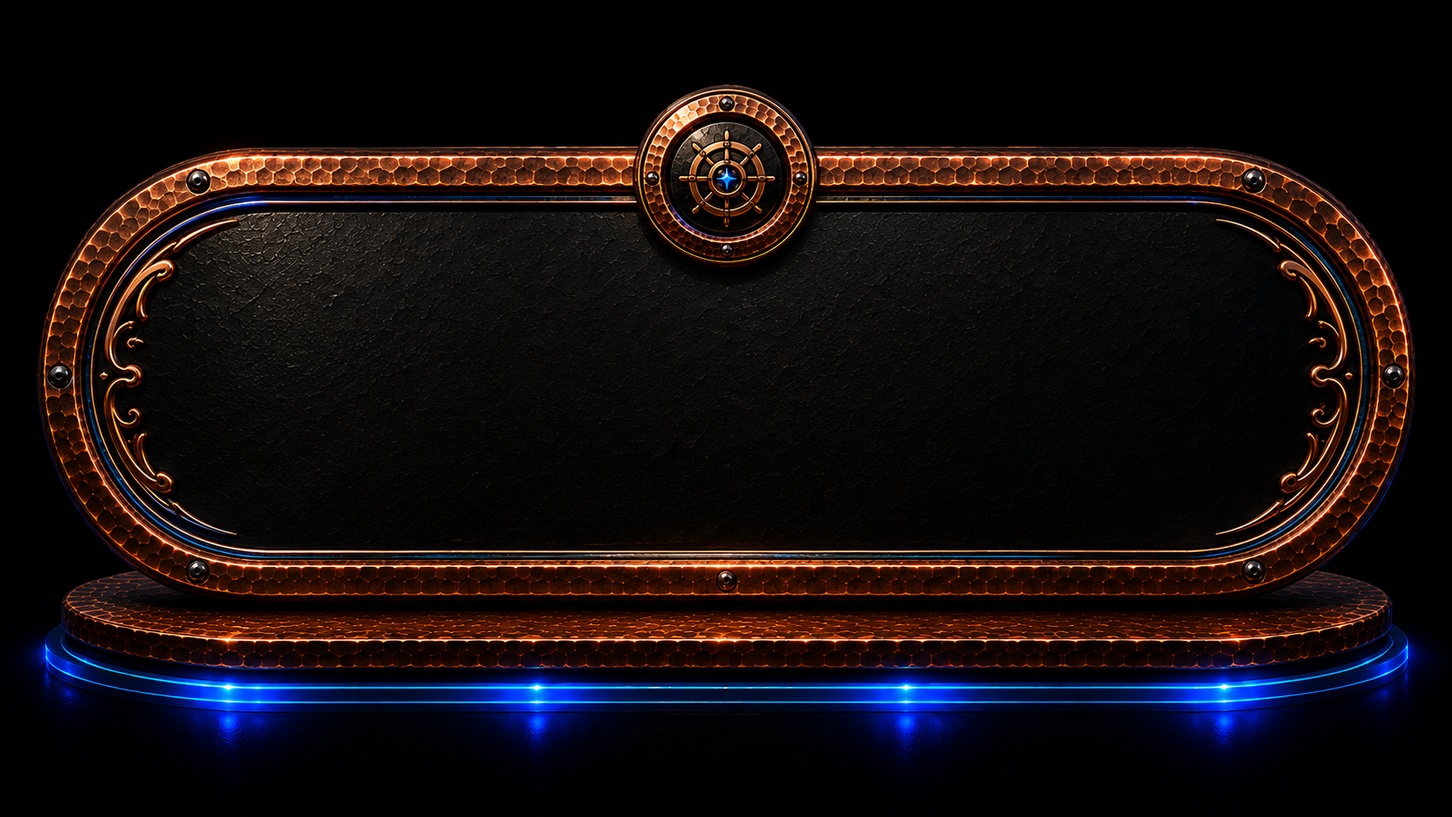
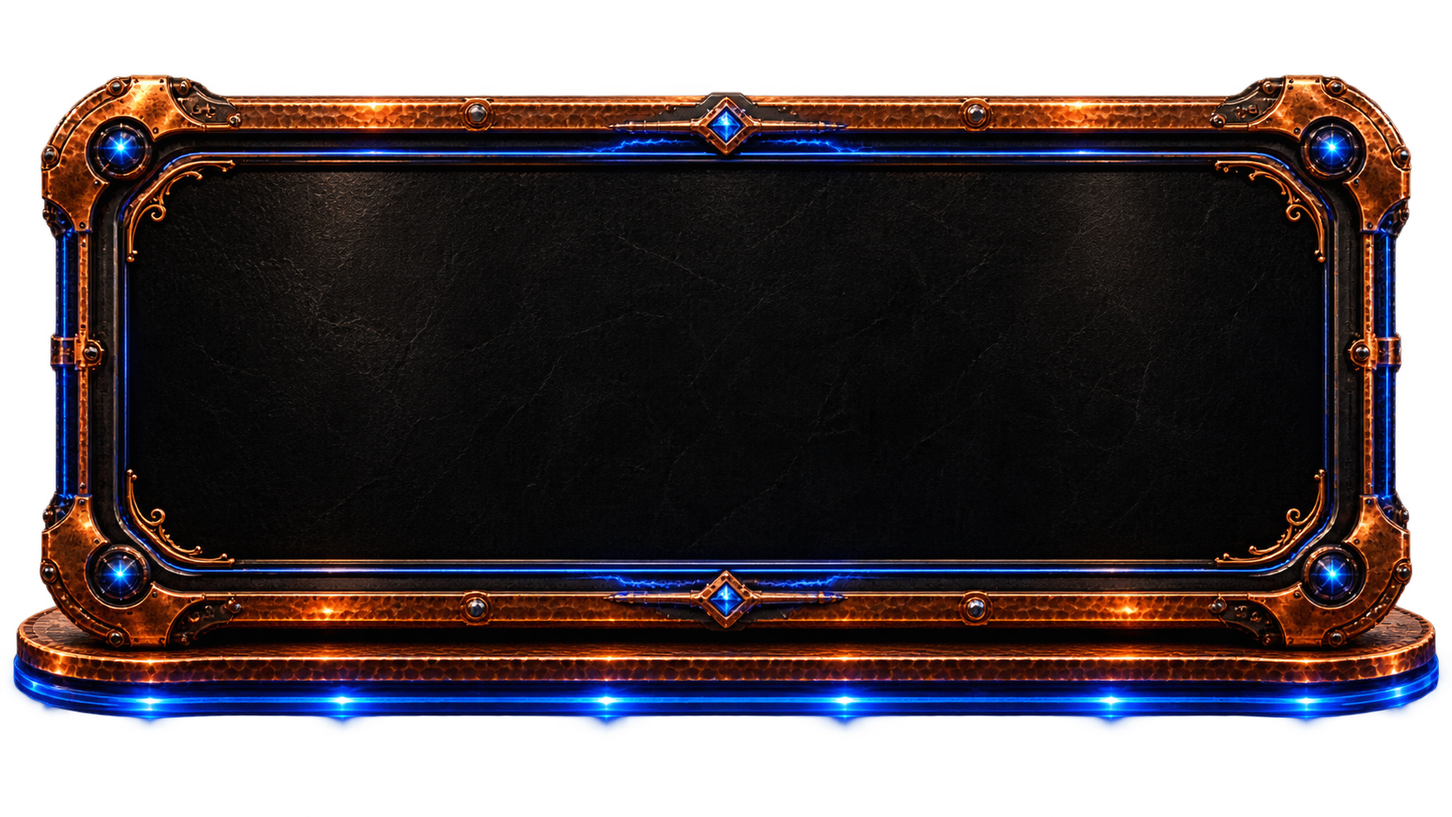
fix(studio): add transparent Arc Ember stage system

diff --git a/lib/fusion/creative-studio/signature-assets/registry.ts b/lib/fusion/creative-studio/signature-assets/registry.ts
@@ -8,6 +8,18 @@ const full = { top: 0, right: 0, bottom: 0, left: 0 } as const;
 const actionInsets = { top: 0.16, right: 0.09, bottom: 0.17, left: 0.13 } as const;
 const actionSockets = { identity: true, eyebrow: true, title: true, description: true, cue: true, action: true } as const;
 const states = ["default", "hover", "pressed", "disabled"] as const;
+const arcEmberStageExpansion = {
+  mode: "protected-cap-inset",
+  cornerCaps: { top: .202, right: .105, bottom: .223, left: .105 },
+  contentSafeArea: { top: .19, right: .108, bottom: .205, left: .108 },
+  glowSafeArea: { top: .025, right: .025, bottom: .045, left: .025 },
+  plinthSafeRegion: { top: .78, bottom: 1 },
+  minimumWidthPx: 300,
+  minimumHeightPx: 230,
+  innerPadding: { top: .15, right: .115, bottom: .17, left: .115 },
+  childGapPx: 14,
+  flow: "vertical",
+} as const;
 
 export const SIGNATURE_FAMILIES: readonly SignatureFamilyDefinition[] = [
   { id: ARC_EMBER_SIGNATURE_FAMILY_ID, slug: "arc-ember", label: "Arc Ember", lifecycle: "candidate", sortOrder: 10 },
@@ -38,14 +50,14 @@ export const SIGNATURE_ASSETS: readonly SignatureAssetDefinition[] = [
[1 lines of base64/hex data omitted]
   ].map(([role,label,file,sha],index)=>asset({id:`master/arc-ember/identity/${role}/v1`,label,subgroup:"identity",assetKind:"identity",role,variant:"standard",sourceAsset:`${ROOT}/identity/${file}`,sourceSha256:sha,width:1254,height:1254,glowPadding:full,safeInsets:{top:.2,right:.2,bottom:.2,left:.2},socketContract:{identity:true},layoutCapabilities:["SINGLE"],responsiveContract:{proportional:true,phoneSafe:true,minRenderedWidthPx:72},stateContract:["default","disabled"],nestingCapabilities:{canContainChildren:false,acceptedChildKinds:[]},lifecycle:"candidate",sortOrder:100+index,tags:["identity","logo","icon","portrait","phone-safe"]})),
   ...[
[5 lines of base64/hex data omitted]
-  ].map(([role,label,file,sha,center],index)=>asset({id:`master/arc-ember/divider/${role}/v1`,label:String(label),subgroup:"dividers",assetKind:"divider",role:String(role),variant:"standard",sourceAsset:`${ROOT}/dividers/${file}`,sourceSha256:String(sha),width:role==="logo-center"?1774:2172,height:role==="logo-center"?887:724,glowPadding:full,safeInsets:full,socketContract:{dividerCenter:Boolean(center)},layoutCapabilities:["SINGLE"],responsiveContract:{proportional:true,phoneSafe:true,minRenderedWidthPx:260},stateContract:["default","disabled"],nestingCapabilities:{canContainChildren:false,acceptedChildKinds:[]},lifecycle:role==="paired-rods"?"production":"candidate",sortOrder:200+index,tags:["divider","electric-blue","phone-safe",center?"live-center":"no-center"]})),
[5 lines of base64/hex data omitted]
+  ].map(([role,label,file,sha,center],index)=>asset({id:`master/arc-ember/divider/${role}/v1`,label:String(label),subgroup:"dividers",assetKind:"divider",role:String(role),variant:"transparent-exterior",sourceAsset:`${ROOT}/dividers/${file}`,sourceSha256:String(sha),width:2172,height:724,glowPadding:full,safeInsets:full,socketContract:{dividerCenter:Boolean(center)},layoutCapabilities:["SINGLE"],responsiveContract:{proportional:true,phoneSafe:true,minRenderedWidthPx:260},stateContract:["default","disabled"],nestingCapabilities:{canContainChildren:false,acceptedChildKinds:[]},lifecycle:"production",sortOrder:200+index,tags:["divider","electric-blue","transparent-exterior","phone-safe",center?"live-center":"no-center"]})),
[4 lines of base64/hex data omitted]
 ] as const;
 
@@ -65,7 +77,7 @@ export function signatureAssetInsert(asset: SignatureAssetDefinition) {
   if (asset.assetKind === "action") Object.assign(common,{ elementKind:"button", label:asset.label, eyebrow:"SIGNATURE ACTION", description:"Edit live supporting text", showLabel:true,showDescription:true,showIcon:true,iconMediaUrl:"/tap-connect-mark.png",vpArcEmberActionCue:"arrow",actionType:"website",href:"",disabled:false });
   if (asset.assetKind === "identity") Object.assign(common,{ elementKind:"image",src:"/tap-connect-mark.png",imageUrl:"/tap-connect-mark.png",fit:"contain",alt:asset.label });
   if (asset.assetKind === "divider") Object.assign(common,{ elementKind:"divider",dividerCenterMediaUrl:asset.socketContract.dividerCenter?"/tap-connect-mark.png":"" });
-  if (asset.assetKind === "frame" || asset.assetKind === "stage") Object.assign(common,{ elementKind:"composition",componentKind:"container",layout:"free",resizePolicy:"reflow",canContainChildren:true });
+  if (asset.assetKind === "frame" || asset.assetKind === "stage") Object.assign(common,{ elementKind:"composition",componentKind:"container",layout:asset.assetKind === "stage"?"stack":"free",resizePolicy:asset.assetKind === "stage"?"fit-content":"reflow",canContainChildren:true,childIds:[],gap:asset.expansionContract?.childGapPx ?? 12,signatureStageFlow:asset.expansionContract?.flow });
   if (asset.assetKind === "footer") Object.assign(common,{ elementKind:"decorative_graphic",decorative:true,actionType:"none" });
   return { level:"element" as const, kind:kindMap[asset.assetKind], initialProps:common };
 }

diff --git a/lib/fusion/creative-studio/signature-assets/arc-ember-stage-layout.ts b/lib/fusion/creative-studio/signature-assets/arc-ember-stage-layout.ts
@@ -1,0 +1,121 @@
+import type { CreativeCompositionNode } from "@/lib/fusion/creative-studio/composition";
+import { containerChildIds } from "@/lib/fusion/creative-studio/selection-mode";
+import { getSignatureAsset } from "./registry";
+
+export const ARC_EMBER_STAGE_ID = "master/arc-ember/stage/surface/v1";
+
+export type ArcEmberStageMeasurement = {
+  stageId: string;
+  topPx: number;
+  leftPx: number;
+  widthPx: number;
+  heightPx: number;
+  childIds: string[];
+  childHeightsPx: number[];
+  requiredSurfaceHeightPx: number;
+};
+
+function clamp(value: number, minimum: number, maximum: number) {
+  return Math.min(maximum, Math.max(minimum, value));
+}
+
+function visibleStageChildren(nodes: readonly CreativeCompositionNode[], stageId: string) {
+  const byId = new Map(nodes.map((node) => [node.id, node]));
+  return containerChildIds(nodes, stageId)
+    .map((id) => byId.get(id))
+    .filter((node): node is CreativeCompositionNode => Boolean(node && node.visible !== false));
+}
+
+function childHeightPx(child: CreativeCompositionNode, innerWidthPx: number, fallbackSurfaceHeightPx: number) {
+  const asset = getSignatureAsset(child.props.signatureAssetId);
+  if (asset) return clamp(innerWidthPx / asset.aspectRatio, asset.assetKind === "divider" ? 42 : 62, 220);
+  return clamp(child.height * fallbackSurfaceHeightPx, 48, 260);
+}
+
+/**
+ * Measures the content-driven manufactured frame. Source pixels are not changed here:
+ * this only places independent children inside the protected content aperture.
+ */
+export function measureArcEmberStages(
+  nodes: readonly CreativeCompositionNode[],
+  viewportWidthPx: number,
+  fallbackSurfaceHeightPx: number,
+): ArcEmberStageMeasurement[] {
+  const safeViewportWidth = Math.max(280, viewportWidthPx || 390);
+  const safeFallbackHeight = Math.max(260, fallbackSurfaceHeightPx || 720);
+  return nodes.flatMap((stage) => {
+    if (stage.props.signatureAssetId !== ARC_EMBER_STAGE_ID || stage.visible === false) return [];
+    const asset = getSignatureAsset(stage.props.signatureAssetId);
+    const contract = asset?.expansionContract;
+    if (!asset || !contract) return [];
+    const widthPx = clamp(stage.width * safeViewportWidth, contract.minimumWidthPx, safeViewportWidth * 1.2);
+    const leftPx = stage.x * safeViewportWidth;
+    const topPx = Math.max(0, stage.y * safeFallbackHeight);
+    const innerWidthPx = widthPx * (1 - contract.innerPadding.left - contract.innerPadding.right);
+    const children = visibleStageChildren(nodes, stage.id);
+    const childHeightsPx = children.map((child) => childHeightPx(child, innerWidthPx, safeFallbackHeight));
+    const topPaddingPx = Math.max(44, widthPx * contract.innerPadding.top);
+    const bottomPaddingPx = Math.max(50, widthPx * contract.innerPadding.bottom);
+    const gapsPx = Math.max(0, childHeightsPx.length - 1) * contract.childGapPx;
+    const contentHeightPx = childHeightsPx.reduce((sum, height) => sum + height, 0) + gapsPx;
+    const heightPx = Math.max(contract.minimumHeightPx, topPaddingPx + contentHeightPx + bottomPaddingPx);
+    return [{
+      stageId: stage.id,
+      topPx,
+      leftPx,
+      widthPx,
+      heightPx,
+      childIds: children.map((child) => child.id),
+      childHeightsPx,
+      requiredSurfaceHeightPx: topPx + heightPx + Math.max(24, widthPx * contract.glowSafeArea.bottom),
+    }];
+  });
+}
+
+export function requiredArcEmberSurfaceHeightPx(
+  nodes: readonly CreativeCompositionNode[],
+  viewportWidthPx: number,
+  fallbackSurfaceHeightPx: number,
+) {
+  return Math.max(
+    fallbackSurfaceHeightPx,
+    ...measureArcEmberStages(nodes, viewportWidthPx, fallbackSurfaceHeightPx).map((measurement) => measurement.requiredSurfaceHeightPx),
+  );
+}
+
+/** Deterministic render-time reflow: removal contracts; reinsertion expands; array/childIds order wins. */
+export function layoutArcEmberStages(
+  nodes: readonly CreativeCompositionNode[],
+  viewportWidthPx: number,
+  surfaceHeightPx: number,
+  fallbackSurfaceHeightPx = surfaceHeightPx,
+): CreativeCompositionNode[] {
+  const measurements = measureArcEmberStages(nodes, viewportWidthPx, fallbackSurfaceHeightPx);
+  if (!measurements.length) return [...nodes];
+  const patches = new Map<string, Partial<CreativeCompositionNode>>();
+  for (const measurement of measurements) {
+    const stage = nodes.find((node) => node.id === measurement.stageId)!;
+    const asset = getSignatureAsset(stage.props.signatureAssetId)!;
+    const contract = asset.expansionContract!;
+    patches.set(stage.id, {
+      x: measurement.leftPx / viewportWidthPx,
+      y: measurement.topPx / surfaceHeightPx,
+      width: measurement.widthPx / viewportWidthPx,
+      height: measurement.heightPx / surfaceHeightPx,
+    });
+    const innerLeftPx = measurement.leftPx + measurement.widthPx * contract.innerPadding.left;
+    const innerWidthPx = measurement.widthPx * (1 - contract.innerPadding.left - contract.innerPadding.right);
+    let cursorPx = measurement.topPx + Math.max(44, measurement.widthPx * contract.innerPadding.top);
+    measurement.childIds.forEach((id, index) => {
+      const heightPx = measurement.childHeightsPx[index] ?? 62;
+      patches.set(id, {
+        x: innerLeftPx / viewportWidthPx,
+        y: cursorPx / surfaceHeightPx,
+        width: innerWidthPx / viewportWidthPx,
+        height: heightPx / surfaceHeightPx,
+      });
+      cursorPx += heightPx + contract.childGapPx;
+    });
+  }
+  return nodes.map((node) => patches.has(node.id) ? { ...node, ...patches.get(node.id)! } : node);
+}

diff --git a/lib/fusion/creative-studio/__tests__/signature-asset-registry.test.ts b/lib/fusion/creative-studio/__tests__/signature-asset-registry.test.ts
@@ -3,6 +3,9 @@ import { createHash } from "node:crypto";
 import { existsSync, readFileSync } from "node:fs";
 import path from "node:path";
 import test from "node:test";
+import { PNG } from "pngjs";
+import { createCompositionNode } from "../composition";
+import { layoutArcEmberStages, measureArcEmberStages, requiredArcEmberSurfaceHeightPx } from "../signature-assets/arc-ember-stage-layout";
 import { SIGNATURE_LAYOUT_RECIPES } from "../signature-assets/layout-recipes";
 import { ARC_EMBER_SIGNATURE_FAMILY_ID, getSignatureAsset, listSignatureAssets, signatureAssetInsert, SIGNATURE_ASSETS } from "../signature-assets/registry";
 
@@ -23,14 +26,59 @@ test("Arc Ember production inventory has stable family-neutral ids and byte-iden
   }
 });
 
-test("paired rods clarification is approved, classified, and preserved under its original filename",()=>{
+test("paired rods replacement is approved, explicitly classified, and keeps its stable ID",()=>{
   const paired = getSignatureAsset("master/arc-ember/divider/paired-rods/v1")!;
   assert.equal(paired.lifecycle,"production");
   assert.equal(paired.role,"paired-rods");
-  assert.match(paired.sourceAsset,/a6ebc5dd-c542-44ae-a78b-0d183f0c6794\.png$/);
[1 lines of base64/hex data omitted]
+  assert.match(paired.sourceAsset,/05-double-electic-rod\.png$/);
[1 lines of base64/hex data omitted]
   const local = JSON.parse(readFileSync(path.join(root,"public/visual-parts/signature/arc-ember/reference/local-manifest-additions.json"),"utf8"));
-  assert.equal(local.records[0].stableId,paired.id);
+  assert.equal(local.records.find((record:{stableId:string})=>record.stableId===paired.id).classification,"Paired Rod Divider");
+});
+
+test("all five divider replacements have real transparent exterior pixels and no duplicate registration",()=>{
+  const dividers=listSignatureAssets({familyId:ARC_EMBER_SIGNATURE_FAMILY_ID,subgroup:"dividers"});
+  assert.equal(dividers.length,5);
+  assert.equal(new Set(dividers.map((item)=>item.id)).size,5);
+  for (const divider of dividers) {
+    const png=PNG.sync.read(readFileSync(diskPath(divider.sourceAsset)));
+    let transparent=0;
+    for(let offset=3;offset<png.data.length;offset+=4) if(png.data[offset]===0) transparent+=1;
+    assert.ok(transparent>png.width*png.height*.6,`${divider.id} must float without an opaque backing canvas`);
+  }
+});
+
+test("expandable Stage keeps protected caps and content-driven vertical child flow",()=>{
+  const stageAsset=getSignatureAsset("master/arc-ember/stage/surface/v1")!;
+  assert.equal(stageAsset.nestingCapabilities.canContainChildren,true);
+  assert.equal(stageAsset.expansionContract?.mode,"protected-cap-inset");
+  assert.deepEqual(stageAsset.nestingCapabilities.acceptedChildKinds,["action","identity","divider","footer"]);
+  const stage=createCompositionNode("shape",{id:"stage",x:.04,y:.03,width:.92,height:.3,props:{...signatureAssetInsert(stageAsset).initialProps}});
+  const actions=Array.from({length:5},(_,index)=>createCompositionNode("button",{id:`action-${index}`,props:{...signatureAssetInsert(getSignatureAsset("master/arc-ember/action/utility/v1")!).initialProps,containerId:"stage",actionType:"website",href:`https://example.com/${index}`}}));
+  const expanded=[stage,...actions];
+  const expandedMeasurement=measureArcEmberStages(expanded,390,680)[0]!;
+  const contractedMeasurement=measureArcEmberStages([stage,...actions.slice(0,3)],390,680)[0]!;
+  assert.ok(expandedMeasurement.heightPx>contractedMeasurement.heightPx);
+  assert.equal(expandedMeasurement.childIds.length,5);
+  assert.deepEqual(expandedMeasurement.childIds,actions.map((action)=>action.id));
+  assert.equal(measureArcEmberStages(expanded,390,680)[0]!.heightPx,expandedMeasurement.heightPx,"reinserted children deterministically restore height");
+  const required=requiredArcEmberSurfaceHeightPx(expanded,390,680);
+  const laidOut=layoutArcEmberStages(expanded,390,required,680);
+  const laidStage=laidOut.find((node)=>node.id==="stage")!;
+  const laidChildren=actions.map((action)=>laidOut.find((node)=>node.id===action.id)!);
+  assert.ok(laidStage.x>=0 && laidStage.x+laidStage.width<=1);
+  assert.ok(laidChildren.every((child)=>child.x>=laidStage.x && child.x+child.width<=laidStage.x+laidStage.width+.0001));
+  assert.ok(laidChildren.every((child,index)=>index===0 || child.y>laidChildren[index-1]!.y));
+  assert.deepEqual(laidChildren.map((child)=>child.props.href),actions.map((action)=>action.props.href),"nested Action bindings remain independent through reflow/save serialization");
+  assert.deepEqual(JSON.parse(JSON.stringify(expanded)).map((node:{id:string})=>node.id),["stage",...actions.map((action)=>action.id)],"save/reload preserves Stage and child order");
+});
+
+test("Stage source has transparent exterior while preserving its authored dark physical center",()=>{
+  const stage=getSignatureAsset("master/arc-ember/stage/surface/v1")!;
+  const png=PNG.sync.read(readFileSync(diskPath(stage.sourceAsset)));
+  const alphaAt=(x:number,y:number)=>png.data[(y*png.width+x)*4+3];
+  assert.equal(alphaAt(0,0),0);
+  assert.ok(alphaAt(Math.floor(png.width/2),Math.floor(png.height/2))>0);
 });
 
 test("Signature sockets reuse canonical element kinds and keep actions independent",()=>{

diff --git a/lib/fusion/creative-studio/signature-assets/signature-master.css b/lib/fusion/creative-studio/signature-assets/signature-master.css
@@ -1,1 +1,2 @@
 .signature-master__action,.signature-master{position:relative;display:block;width:100%;height:100%;overflow:visible;text-decoration:none}.signature-master{isolation:isolate;container-type:size}.signature-master__asset{position:absolute;inset:0;width:100%;height:100%;display:block;object-fit:contain;pointer-events:none;user-select:none}.signature-master[data-signature-kind="action"]{aspect-ratio:3/1}.signature-master__action{transition:transform 140ms ease}.signature-master__action:hover{transform:translateY(-1px)}.signature-master__action:active{transform:translateY(1px) scale(.994)}.signature-master[data-signature-state="disabled"]{opacity:.46}.signature-master__identity{position:absolute;left:17.1%;top:36.1%;width:13.2%;aspect-ratio:1;display:grid;place-items:center;transform:translate(-50%,-50%);overflow:hidden;border-radius:50%}.signature-master__identity img{width:76%;height:76%;object-fit:contain;border-radius:50%;filter:drop-shadow(0 2px 2px rgba(0,0,0,.72))}.signature-master__copy{position:absolute;left:30.5%;right:18.5%;top:17%;bottom:30%;display:flex;flex-direction:column;justify-content:center;align-items:flex-start;min-width:0}.signature-master__eyebrow{margin-bottom:1.1cqh;color:#d69a65;font:600 clamp(7px,4.1cqh,15px)/1 Georgia,serif;letter-spacing:.2em;text-transform:uppercase;text-shadow:0 1px 2px #000}.signature-master__title{max-width:100%;overflow:hidden;color:#fff3e5;font:600 clamp(11px,10cqh,38px)/1.02 Georgia,"Times New Roman",serif;text-overflow:ellipsis;white-space:nowrap;text-shadow:0 2px 2px #000,0 0 4px rgba(161,72,29,.36)}.signature-master__description{margin-top:1.1cqh;max-width:100%;overflow:hidden;color:#c6a58f;font:400 clamp(7px,4.4cqh,16px)/1.05 Georgia,serif;text-overflow:ellipsis;white-space:nowrap;text-shadow:0 1px 2px #000}.signature-master__cue{position:absolute;left:85.6%;top:35.8%;transform:translate(-50%,-50%);color:#f5b46d;font:500 clamp(14px,12cqh,42px)/1 Georgia,serif;text-shadow:0 2px 2px #000,0 0 4px rgba(179,72,20,.42)}.signature-master__identity-only{position:absolute;inset:25%;display:grid;place-items:center;border-radius:50%;overflow:hidden}.signature-master__identity-only img{width:100%;height:100%;object-fit:contain;filter:drop-shadow(0 2px 3px rgba(0,0,0,.72))}.signature-master__divider-center{position:absolute;left:50%;top:50%;width:13%;aspect-ratio:1;display:grid;place-items:center;transform:translate(-50%,-50%);border-radius:50%;overflow:hidden}.signature-master__divider-center img{width:76%;height:76%;object-fit:contain;border-radius:50%}@media(prefers-reduced-motion:reduce){.signature-master__action{transition:none}}
+.signature-master--expandable-stage{box-sizing:border-box;border-style:solid;border-color:transparent;border-width:clamp(38px,11.4cqw,78px) clamp(34px,10.2cqw,72px) clamp(42px,12.6cqw,86px);border-image-source:var(--signature-stage-source);border-image-slice:190 176 210 176 fill;border-image-width:1;border-image-repeat:stretch;pointer-events:none}

diff --git a/components/fusion/creative-studio/creative-composition-canvas.tsx b/components/fusion/creative-studio/creative-composition-canvas.tsx
@@ -99,7 +99,7 @@ import {
 } from "@/lib/fusion/creative-studio/visual-parts/packages/cosmic-glass/CosmicGlassStudioBridge";
 import { ArcEmberPristineMasterAction } from "@/lib/fusion/creative-studio/visual-parts/packages/arc-ember-pristine/ArcEmberPristineMasterBridge";
 import { isArcEmberPristineMasterProps } from "@/lib/fusion/creative-studio/visual-parts/packages/arc-ember-pristine/recipe";
-import { isSignatureAssetProps, SignatureMasterBridge } from "@/lib/fusion/creative-studio/signature-assets";
+import { ARC_EMBER_STAGE_ID, isSignatureAssetProps, layoutArcEmberStages, requiredArcEmberSurfaceHeightPx, SignatureMasterBridge } from "@/lib/fusion/creative-studio/signature-assets";
 
 export type CreativeCompositionCanvasProps = {
   block: CreativeCompositionBlock;
@@ -1866,9 +1866,20 @@ export function CreativeCompositionCanvas({
   /** scale (default) keeps freeform relative layout — same renderer as edit */
 
   const workingNodes = draftNodes ?? block.nodes;
+  const hasExpandableArcEmberStage = workingNodes.some((node) => node.props.signatureAssetId === ARC_EMBER_STAGE_ID);
+  const fallbackSurfaceHeightPx = Math.max(260, minHeightPx ?? ((surfaceSize.width || 390) / Math.max(.25, aspectRatio)));
+  const contentDrivenSurfaceHeightPx = useMemo(
+    () => requiredArcEmberSurfaceHeightPx(workingNodes, Math.max(280, surfaceSize.width || 390), fallbackSurfaceHeightPx),
+    [workingNodes, surfaceSize.width, fallbackSurfaceHeightPx],
+  );
 
   const visibleNodes = useMemo(() => {
-    let nodes = sortCompositionNodes(workingNodes).filter((n) => n.visible !== false);
+    let nodes = sortCompositionNodes(layoutArcEmberStages(
+      workingNodes,
+      Math.max(280, surfaceSize.width || 390),
+      contentDrivenSurfaceHeightPx,
+      fallbackSurfaceHeightPx,
+    )).filter((n) => n.visible !== false);
     // Action Group parents reflow children from live viewport width (real auto-stack geometry).
     const viewportWidthPx = Math.max(160, surfaceSize.width || 390);
     for (const container of nodes) {
@@ -1924,7 +1935,7 @@ export function CreativeCompositionCanvas({
       nodes = nodes.filter((n) => n.primitive === "text" || n.primitive === "button");
     }
     return nodes;
-  }, [workingNodes, hideDecorative, editMode, surfaceSize.width]);
+  }, [workingNodes, hideDecorative, editMode, surfaceSize.width, contentDrivenSurfaceHeightPx, fallbackSurfaceHeightPx]);
 
   const readingOrder = useMemo(
     () => accessibleReadingOrder(visibleNodes),
@@ -2719,7 +2730,7 @@ export function CreativeCompositionCanvas({
       )}
       style={{
         aspectRatio: minHeightPx == null ? String(aspectRatio) : undefined,
-        height: minHeightPx,
+        height: hasExpandableArcEmberStage ? contentDrivenSurfaceHeightPx : minHeightPx,
         padding: block.safeAreaPaddingPx ?? 12,
       }}
       data-testid="creative-composition-canvas"

diff --git a/components/fusion/card/card-contextual-object-toolbar.tsx b/components/fusion/card/card-contextual-object-toolbar.tsx
@@ -72,7 +72,7 @@ import type { GradientModel } from "@/lib/fusion/creative-studio/gradient";
 import { MaterialSurfaceSwatch } from "@/components/fusion/creative-studio/material-surface-layers";
 import { VisualPartsCabinetPanel } from "@/components/fusion/creative-studio/visual-parts-cabinet-panel";
 import { objectFamilyToVisualTarget } from "@/lib/fusion/creative-studio/visual-parts";
-import { signatureAssetInsert } from "@/lib/fusion/creative-studio/signature-assets";
+import { ARC_EMBER_STAGE_ID, signatureAssetInsert } from "@/lib/fusion/creative-studio/signature-assets";
 
 type Focus = "content" | "font" | "color" | "surface" | "media" | "crop" | "adjust" | "frame-appearance" | "action" | "effects" | "appearance" | "animate" | "position" | "layout" | "setup" | "fields" | "gallery" | "resize-policy" | "responsive" | "button-surface" | "button-content" | "button-action" | "button-styles" | "icon-appearance" | "divider-style" | "divider-thickness" | "divider-color" | "divider-appearance" | "map-action" | "text-box" | "border" | "corners" | "size" | "arrange" | "more" | "coupon-content" | "visual-parts" | null;
 type SectionFocus = "size" | "surface" | "layout" | "position" | "more" | null;
@@ -1334,7 +1334,21 @@ export function CardContextualObjectToolbar({ model, onAdvanced, previewMotion =
             onSaveBrandRecipe={(recipe) => model.onSaveVisualBrandRecipe?.(recipe)}
             onInsertSignatureAsset={(asset) => {
               const payload = signatureAssetInsert(asset);
-              model.onAddElement?.(payload.kind, section?.id ?? null, payload.initialProps);
+              const sectionNodes = section?.composition?.nodes || [];
+              const selectedStage = node.props.signatureAssetId === ARC_EMBER_STAGE_ID
+                ? node
+                : resolveContainerParent(sectionNodes, node.id);
+              const acceptsStageChild = Boolean(
+                selectedStage?.props.signatureAssetId === ARC_EMBER_STAGE_ID &&
+                ["action", "identity", "divider", "footer"].includes(asset.assetKind),
+              );
+              model.onAddElement?.(
+                payload.kind,
+                section?.id ?? null,
+                acceptsStageChild
+                  ? { ...payload.initialProps, containerId: selectedStage!.id }
+                  : payload.initialProps,
+              );
             }}
             onPatch={(next, label) => patchProps(next, label)}
             onPassthrough={(kind) => {

diff --git a/lib/fusion/creative-studio/signature-assets/SignatureMasterBridge.tsx b/lib/fusion/creative-studio/signature-assets/SignatureMasterBridge.tsx
@@ -1,5 +1,6 @@
 "use client";
 
+import type { CSSProperties } from "react";
 import { buildButtonHref } from "@/lib/fusion/card/designer-elements";
 import { getSignatureAsset } from "./registry";
 import "./signature-master.css";
@@ -12,6 +13,19 @@ export function SignatureMasterBridge({ props, editMode = false }: { props: Reco
   if (!asset) return null;
   const state = props.disabled === true ? "disabled" : "default";
   const source = asset.liveShellAsset || asset.sourceAsset;
+  if (asset.assetKind === "stage" && asset.expansionContract) {
+    const style = { "--signature-stage-source": `url("${source}")` } as CSSProperties;
+    return (
+      <span
+        className="signature-master signature-master--expandable-stage"
+        data-signature-asset-id={asset.id}
+        data-signature-kind={asset.assetKind}
+        data-signature-state={state}
+        data-signature-expansion="protected-cap-inset"
+        style={style}
+      />
+    );
+  }
   const base = (
     <span className="signature-master" data-signature-asset-id={asset.id} data-signature-kind={asset.assetKind} data-signature-state={state}>
       {/* Immutable source artwork: containment only; never cropped, filtered, recolored, or reconstructed. */}

diff --git a/lib/fusion/creative-studio/signature-assets/types.ts b/lib/fusion/creative-studio/signature-assets/types.ts
@@ -4,6 +4,20 @@ export type SignatureSubgroup = "actions" | "identity" | "dividers" | "frames-st
 
 export type SignatureSafeInsets = { top: number; right: number; bottom: number; left: number };
 
+export type SignatureExpansionContract = {
+  mode: "protected-cap-inset";
+  /** Normalized source-image cuts. Corners/hardware outside these cuts never stretch. */
+  cornerCaps: SignatureSafeInsets;
+  contentSafeArea: SignatureSafeInsets;
+  glowSafeArea: SignatureSafeInsets;
+  plinthSafeRegion: { top: number; bottom: number };
+  minimumWidthPx: number;
+  minimumHeightPx: number;
+  innerPadding: SignatureSafeInsets;
+  childGapPx: number;
+  flow: "vertical";
+};
+
 export type SignatureSocketContract = {
   identity?: boolean;
   eyebrow?: boolean;
@@ -44,6 +58,8 @@ export type SignatureAssetDefinition = {
   tags: readonly string[];
   /** Optional immutable blank chassis used when a content-bearing approval render cannot host live sockets. */
   liveShellAsset?: string;
+  /** Present only for authored containers whose rails/caps must expand without whole-raster distortion. */
+  expansionContract?: SignatureExpansionContract;
 };
 
 export type SignatureFamilyDefinition = {

diff --git a/scripts/arc-ember-signature-evidence.ts b/scripts/arc-ember-signature-evidence.ts
@@ -14,7 +14,7 @@ write("asset-map.json",{
     combinedDoubleStack:"99_review_not_production/double-stack_combined-reference_DO-NOT-INGEST.png",
     reason:"Double Stack is STACK-2 over independent stack-row actions; baked combined reference is not customer selectable."
   },
-  pairedRodsClarification:{stableId:"master/arc-ember/divider/paired-rods/v1",classification:"approved production asset",originalFilename:"a6ebc5dd-c542-44ae-a78b-0d183f0c6794.png"}
[1 lines of base64/hex data omitted]
 });
 write("socket-map.json",{
   familyId:SIGNATURE_FAMILIES[0].id,

diff --git a/lib/fusion/creative-studio/signature-assets/index.ts b/lib/fusion/creative-studio/signature-assets/index.ts
@@ -2,3 +2,4 @@ export * from "./types";
 export * from "./registry";
 export * from "./layout-recipes";
 export * from "./SignatureMasterBridge";
+export * from "./arc-ember-stage-layout";

diff --git a/lib/fusion/creative-studio/signature-assets/README.md b/lib/fusion/creative-studio/signature-assets/README.md
@@ -7,3 +7,7 @@ Source masters in `public/visual-parts/signature/<family>/source/` are immutable
 Arc Ember's source approval renders for Utility, Team/About, Compact, and Stack Row contain sample copy. Their byte-identical records remain the catalog/provenance authority. The separately supplied blank pristine shell is used as `liveShellAsset` for editable customer output so live text does not collide with baked approval copy. No shell artwork is reconstructed.
 
 The combined two-row reference was deliberately not ingested. Double Stack is the generic `STACK-2` recipe over two independent `stack-row` Action objects.
+
+Arc Ember divider masters are transparent floating parts. The registry must point directly at the supplied PNGs; renderers must not add backing panels or crop their glow padding.
+
+`master/arc-ember/stage/surface/v1` is the one expandable exception to whole-master proportional containment. Its supplied bitmap remains immutable, while the renderer uses its recorded protected-cap insets as a 9-slice: corners, hardware, ornaments, and plinth endpoints remain fixed; straight rails, the authored dark center field, plinth span, and continuous glow runs extend. Independent children are laid out vertically in the protected content aperture, and the Card composition height is derived from their count and intrinsic proportions.
